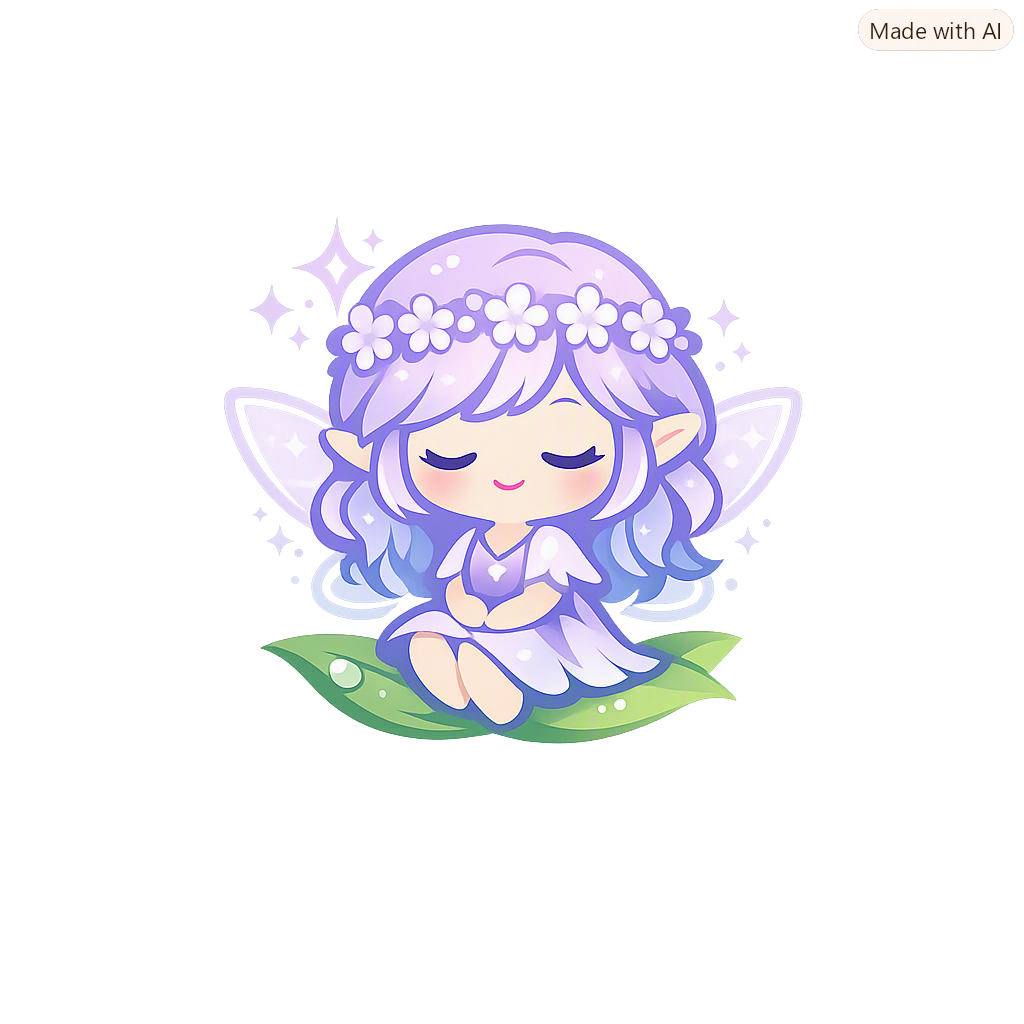
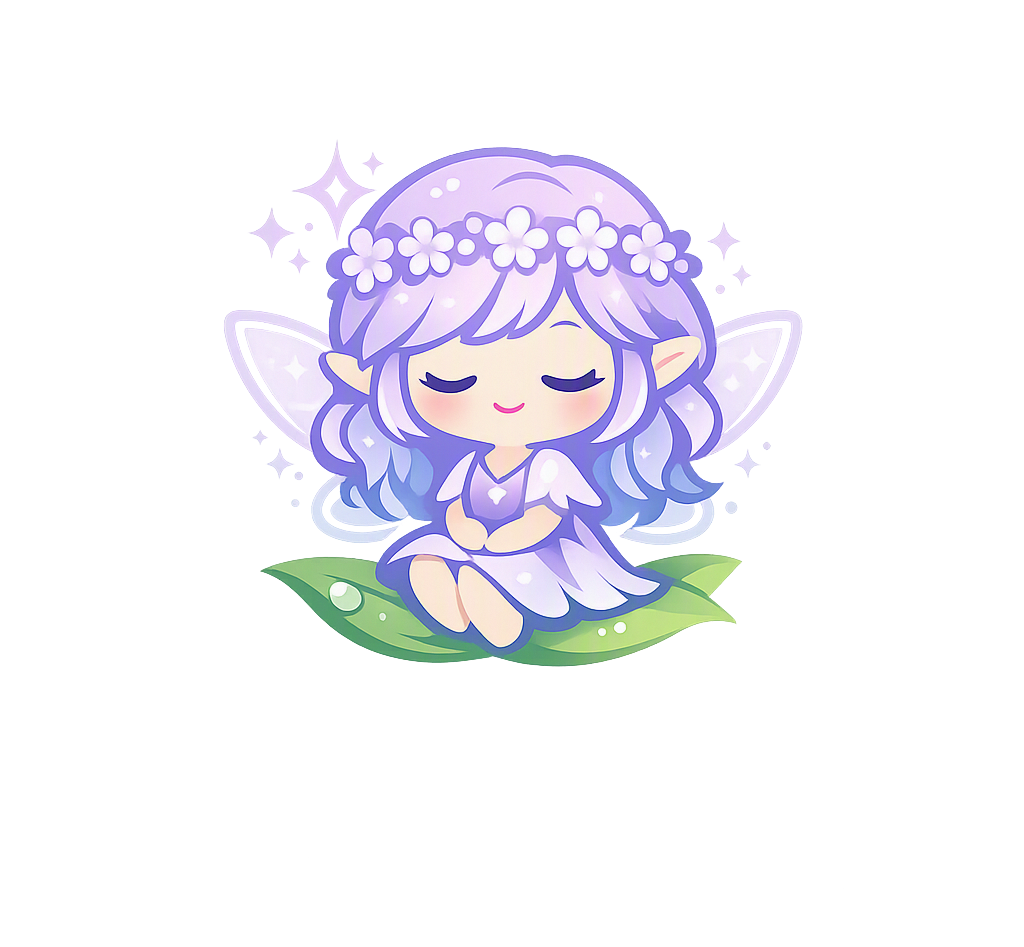
README

Changed region(s): [[0.2188, 0.1531, 0.7812, 0.735], [0.8438, 0.0, 0.9688, 0.0612]]

diff --git a/css/style.css b/css/style.css
@@ -45,11 +45,12 @@
 }
 
 .character-button{
+    --character-size:110px;
     position:absolute;
     bottom:0;
     left:0;
-    width:110px;
-    height:110px;
+    width:var(--character-size);
+    height:var(--character-size);
     padding:0;
     overflow:hidden;
     border:0;
@@ -67,7 +68,7 @@
     max-width:none;
     object-fit:contain;
     mix-blend-mode:screen;
-    transform:translate(-50%, -50%);
+    transform:translate(-50%, -40%);
 }
 
 .character-button:focus-visible{
@@ -85,7 +86,7 @@
         transform:translateX(0);
     }
     50%{
-        transform:translateX(max(0px, calc(100vw - 110px)));
+        transform:translateX(max(0px, calc(100vw - var(--character-size))));
     }
 }
 
@@ -232,7 +233,7 @@ ul li {
     transform:translate(-50%, -50%) rotate(-45deg);
 }
 
-.pin-task:hover,.edit-task:hover.delete-task:hover{
+.pin-task:hover,.edit-task:hover,.delete-task:hover{
     background:#edeef0;
 }
 
@@ -345,5 +346,93 @@ ul li.checked{
 
 ul li.checked::before{
     background-image: url("../images/checked.png"); /* to makethe icon of the checked task when atask is done */
+}
+
+@media (max-width: 560px){  /* to make it mobile friendly*/
+    .container{
+        padding:24px 10px 96px;
+    }
+
+    .todo-app{
+        margin:36px auto 16px;
+        padding:28px 18px 48px;
+        border-radius:8px;
+    }
+
+    .todo-app h2{
+        font-size:22px;
+    }
+
+    .todo-app #icon{
+        width:42px;
+    }
+
+    .row{
+        gap:4px;
+        padding-left:12px;
+        border-radius:18px;
+    }
+
+    #input-box{
+        min-width:0;
+        padding:10px 8px;
+        font-size:16px;
+    }
+
+    .row > button{
+        flex:0 0 auto;
+        width:auto;
+        padding:12px 18px;
+        font-size:15px;
+    }
+
+    ul li{
+        padding:12px 106px 12px 42px;
+        font-size:16px;
+    }
+
+    ul li::before{
+        top:14px;
+        left:6px;
+        width:24px;
+        height:24px;
+    }
+
+    .pin-task,
+    .edit-task,
+    .delete-task{
+        width:30px;
+        height:30px;
+    }
+
+    .edit-task{
+        right:34px;
+    }
+
+    .pin-task{
+        right:68px;
+    }
+
+    .pin-task img{
+        width:21px;
+        height:21px;
+    }
+
+    .character-runway{
+        height:84px;
+    }
+
+    .character-button{
+        --character-size:84px;
+    }
+
+    .character-button img{
+        width:150px;
+        height:150px;
+    }
+
+    .app-dialog{
+        padding:20px;
+    }
 }
 

diff --git a/index.html b/index.html
@@ -3,7 +3,7 @@
     <head>
         <meta name="viewport" content="width=device-width, initial-scale=1">
         <title>TO-DO LIST APP</title>
-        <link rel="icon" type="image/png" href="images/character.png">
+        <link rel="alternate icon" type="image/png" href="images/character.png">
         <link rel="stylesheet" href="css/style.css">
     </head>
     <body>

diff --git a/README.md b/README.md
@@ -1,0 +1,49 @@
+# To-Do List App
+
+A responsive to-do list built with HTML, CSS, and JavaScript. Tasks are saved in the browser's local storage.
+
+## Features
+
+- Add, edit, complete, and delete tasks
+- Pin tasks to the top and restore their original position when unpinned
+- Confirmation dialogs for deleting and unpinning
+- Responsive mobile layout
+- Click the character at the bottom to make it move across the screen
+
+## Run
+
+Open `index.html` in a web browser. Tasks are saved separately by browser and page origin, so use the same browser and opening method to see the same saved list.
+
+## Screenshots
+
+### Desktop
+
+![To-do list on desktop](images/screenshots/full.png)
+
+### Mobile
+
+![Mobile layout](images/screenshots/mobile-ver.png)
+
+### Empty list
+
+![Empty list](images/screenshots/empty.png)
+
+### Completed tasks
+
+![Completed tasks](images/screenshots/check-task.png)
+
+### Edit task dialog
+
+![Edit task dialog](images/screenshots/edit.png)
+
+### Delete confirmation
+
+![Delete confirmation dialog](images/screenshots/delete.png)
+
+### Pinned tasks
+
+![Pinned tasks](images/screenshots/pin.png)
+
+### Unpin confirmation
+
+![Unpin confirmation dialog](images/screenshots/unpin-pin.png)
